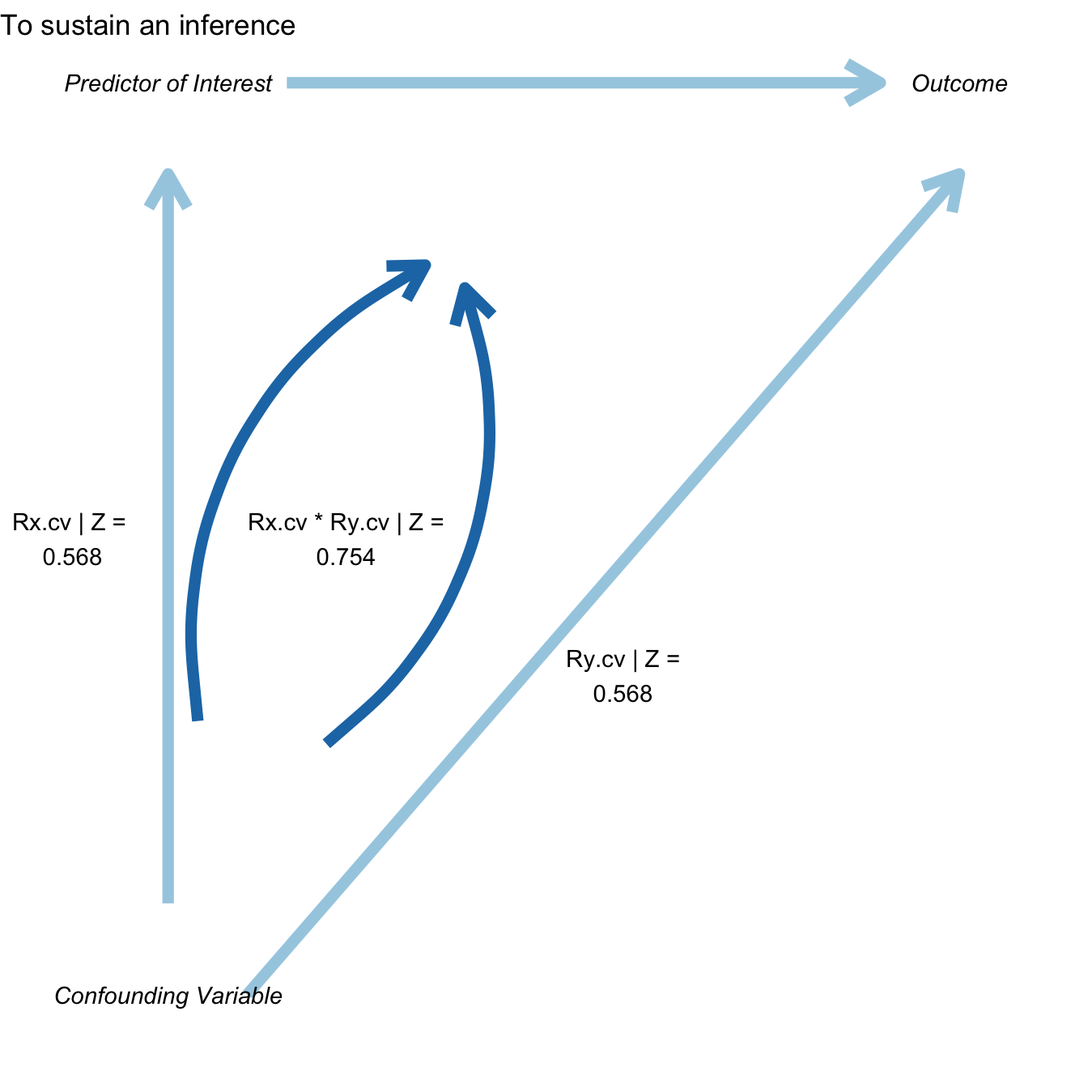
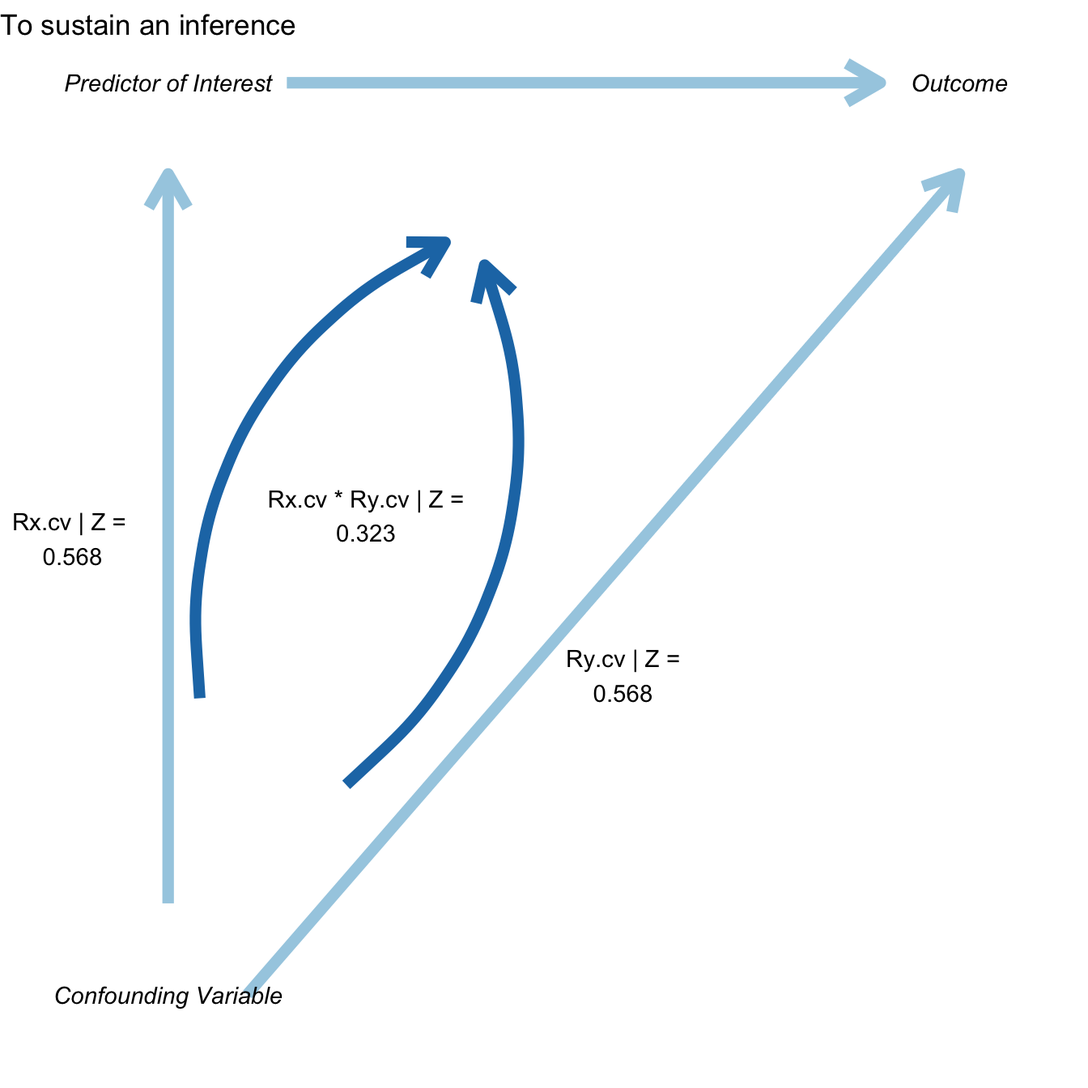
update in response to Ken's feedback

Changed region(s): [[0.2188, 0.2188, 0.5, 0.7188], [0.1562, 0.5, 0.1875, 0.6562]]

diff --git a/docs/articles/Introduction_to_konfound.html b/docs/articles/Introduction_to_konfound.html
@@ -50,7 +50,7 @@
       <h1>Introduction to konfound</h1>
                         <h4 class="author">Joshua Rosenberg, Ran Xu, and Ken Frank</h4>
             
-            <h4 class="date">2017-11-05</h4>
+            <h4 class="date">2017-11-08</h4>
           </div>
 
     
@@ -59,8 +59,8 @@
 <div id="abstract" class="section level1">
 <h1 class="hasAnchor">
 <a href="#abstract" class="anchor"></a>Abstract</h1>
-<p><em>This abstract is adapted from Xu, Frank, and Maroulis’ STATA tutorial “What would it take to Change your Inference? Quantifying the Discourse about Causal Inferences in the Social Sciences”</em></p>
-<p>Statistical methods that quantify the discourse about causal inferences in terms of possible sources of biases, or “sensitivity analysis,” is becoming more important to a variety of social science fields, including research in education, public policy, and political science. A series of recent works by Frank and colleagues on sensitivity analysis points to limitations in earlier methods and aims to extend beyond them. We implement these developments, which previously have been implemented in <code>Stata</code>, in <code>R</code> through the <code>konfound</code> package. In particular, we provide functions for quantifying the bias necessary to alter an inference, from the framework of Rubin’s (1974) causal model, as well as the robustness of causal inference in terms of correlations associated with unobserved variables.</p>
+<p><em>This abstract is adapted from Xu, Frank, and Maroulis’ STATA tutorial “What would it take to Change your Inference? Quantifying the Discourse about Causal Inferences in the Social Sciences.”</em></p>
+<p>Statistical methods that quantify the discourse about causal inferences in terms of possible sources of biases, or “sensitivity analysis,” are becoming more important to a variety of social science fields, including research in education, public policy, and political science. A series of recent works by Frank and colleagues on sensitivity analysis points to limitations in earlier methods and aims to extend beyond them. We implement these developments, which previously have been implemented in <code>Stata</code>, in <code>R</code> through the <code>konfound</code> package. In particular, we provide functions for quantifying the bias necessary to alter an inference, from the framework of Rubin’s (1974) causal model, as well as the robustness of causal inference in terms of the impact threshold of a confounding variable.</p>
 </div>
 <div id="introduction" class="section level1">
 <h1 class="hasAnchor">
@@ -70,12 +70,19 @@
 <h1 class="hasAnchor">
 <a href="#examples" class="anchor"></a>Examples</h1>
 <p><code>konfound</code> is an <code>R</code> package to easily carry out sensitivity analysis as described in Frank, Maroulis, Duong, and Kelcey (2013) based on Rubin’s (1974) causal model.</p>
+<div id="installation" class="section level3">
+<h3 class="hasAnchor">
+<a href="#installation" class="anchor"></a>Installation</h3>
+<p>You can install konfound from GitHub (it will be available on CRAN and therefore via <code>install.packages("konfound")</code> soon) with:</p>
+<div class="sourceCode"><pre class="sourceCode r"><code class="sourceCode r"><span class="co"># install.packages("devtools")</span>
+devtools<span class="op">::</span><span class="kw">install_github</span>(<span class="st">"jrosen48/konfound"</span>)</code></pre></div>
+</div>
 <div id="loading-konfound" class="section level3">
 <h3 class="hasAnchor">
 <a href="#loading-konfound" class="anchor"></a>Loading konfound</h3>
 <div class="sourceCode"><pre class="sourceCode r"><code class="sourceCode r"><span class="kw">library</span>(konfound)</code></pre></div>
 <pre><code>## Loading konfound</code></pre>
-<pre><code>## Sensitivity analysis as described in Frank, Maroulis, Duong, and Kelcey (2013).
+<pre><code>## Sensitivity analysis as described in Frank, Maroulis, Duong, and Kelcey (2013) and in Frank (2000).
 ## For more information visit https://jmichaelrosenberg.shinyapps.io/shinykonfound/.</code></pre>
 </div>
 <div id="use-of-pkonfound" class="section level3">
@@ -88,7 +95,7 @@
 ## 
 ## Correlation-based Approach:
 ## An omitted variable would have to be correlated at 0.568 with the outcome and at 0.568 with the predictor of interest (conditioning on observed covariates) to invalidate an inference.
-## Correspondingly the impact of an omitted variable (as defined in Frank 2000) must be 0.568 X 0.568 = 0.754 to sustain an inference.</code></pre>
+## Correspondingly the impact of an omitted variable (as defined in Frank 2000) must be 0.568 X 0.568 = 0.323 to sustain an inference.</code></pre>
 <div class="sourceCode"><pre class="sourceCode r"><code class="sourceCode r"><span class="kw"><a href="../reference/pkonfound.html">pkonfound</a></span>(<span class="dv">2</span>, .<span class="dv">4</span>, <span class="dv">100</span>, <span class="dv">3</span>, <span class="dt">to_return =</span> <span class="st">"thresh_plot"</span>)</code></pre></div>
 <p><img src="Introduction_to_konfound_files/figure-html/unnamed-chunk-3-1.png" width="480"></p>
 <div class="sourceCode"><pre class="sourceCode r"><code class="sourceCode r"><span class="kw"><a href="../reference/pkonfound.html">pkonfound</a></span>(<span class="dv">2</span>, .<span class="dv">4</span>, <span class="dv">100</span>, <span class="dv">3</span>, <span class="dt">to_return =</span> <span class="st">"corr_plot"</span>)</code></pre></div>
@@ -100,7 +107,7 @@
 ## 
 ## Correlation-based Approach:
 ## An omitted variable would have to be correlated at 0.387 with the outcome and at 0.387 with the predictor of interest (conditioning on observed covariates) to sustain an inference.
-## Correspondingly the impact of an omitted variable (as defined in Frank 2000) must be 0.387 X 0.387 = 0.622 to invalidate an inference.</code></pre>
+## Correspondingly the impact of an omitted variable (as defined in Frank 2000) must be 0.387 X 0.387 = 0.15 to invalidate an inference.</code></pre>
 <div class="sourceCode"><pre class="sourceCode r"><code class="sourceCode r"><span class="kw"><a href="../reference/pkonfound.html">pkonfound</a></span>(.<span class="dv">4</span>, <span class="dv">2</span>, <span class="dv">100</span>, <span class="dv">3</span>, <span class="dt">to_return =</span> <span class="st">"thresh_plot"</span>)</code></pre></div>
 <p><img src="Introduction_to_konfound_files/figure-html/unnamed-chunk-5-1.png" width="480"></p>
 <div class="sourceCode"><pre class="sourceCode r"><code class="sourceCode r"><span class="kw"><a href="../reference/pkonfound.html">pkonfound</a></span>(<span class="fl">1.2</span>, <span class="dv">2</span>, <span class="dv">100</span>, <span class="dv">3</span>, <span class="dt">to_return =</span> <span class="st">"corr_plot"</span>)</code></pre></div>
@@ -128,7 +135,7 @@ m1</code></pre></div>
 ## 
 ## Correlation-based Approach:
 ## An omitted variable would have to be correlated at 0.322 with the outcome and at 0.322 with the predictor of interest (conditioning on observed covariates) to sustain an inference.
-## Correspondingly the impact of an omitted variable (as defined in Frank 2000) must be 0.322 X 0.322 = 0.567 to invalidate an inference.</code></pre>
+## Correspondingly the impact of an omitted variable (as defined in Frank 2000) must be 0.322 X 0.322 = 0.104 to invalidate an inference.</code></pre>
 <div class="sourceCode"><pre class="sourceCode r"><code class="sourceCode r"><span class="kw"><a href="../reference/konfound.html">konfound</a></span>(m1, <span class="dt">test_all =</span> T)</code></pre></div>
 <pre><code>##   var_name unstd_beta std_err n_obs n_covariates     inference
 ## 1       wt     -4.359   0.753    32            2 to_invalidate
@@ -137,7 +144,11 @@ m1</code></pre></div>
 ##   percent_bias replace_null_cases beta_threshhold omitted_variable_corr
 ## 1       64.669                 21     -1.54005792                 0.772
 ## 2       41.327                 13     -0.03067844                 0.322
-## 3       43.087                 14      0.89785581                 0.329</code></pre>
+## 3       43.087                 14      0.89785581                 0.329
+##         itcv
+## 1 -0.5963300
+## 2  0.1033755
+## 3 -0.1080756</code></pre>
 <p>You can also return a table with some key output from the correlation-based approach.</p>
 <div class="sourceCode"><pre class="sourceCode r"><code class="sourceCode r"><span class="kw"><a href="../reference/konfound.html">konfound</a></span>(m1, wt, <span class="dt">to_return =</span> <span class="st">"table"</span>)</code></pre></div>
 <pre><code>## Dependent variable is mpg</code></pre>
@@ -168,7 +179,7 @@ m1</code></pre></div>
 ## 
 ## Correlation-based Approach:
 ## An omitted variable would have to be correlated at 5.535 with the outcome and at 5.535 with the predictor of interest (conditioning on observed covariates) to invalidate an inference.
-## Correspondingly the impact of an omitted variable (as defined in Frank 2000) must be 5.535 X 5.535 = 2.353 to sustain an inference.</code></pre>
+## Correspondingly the impact of an omitted variable (as defined in Frank 2000) must be 5.535 X 5.535 = 30.636 to sustain an inference.</code></pre>
 </div>
 </div>
 <div id="use-of-mkonfound" class="section level3">
@@ -190,16 +201,16 @@ m1</code></pre></div>
 ## 7        2.3      0.10    50      1 to_invalidate       91.258
 ## 8        4.1      3.00   721      1    to_sustain       30.388
 ## 9        0.9      0.50   320      0    to_sustain        8.510
-##   replace_null_cases beta_threshhold omitted_variable_corr
-## 1                 49      0.59896933                 0.725
-## 2                174      5.70114580                 0.283
-## 3                 85      2.95802622                 0.227
-## 4                 90      3.96996862                 0.387
-## 5                 97      0.19860863                 0.974
-## 6                 18      0.08525798                 0.990
-## 7                 46      0.20106348                 0.971
-## 8                219      5.88980656                 0.144
-## 9                 27      0.98371419                 0.091</code></pre>
+##   replace_null_cases beta_threshhold omitted_variable_corr        itcv
+## 1                 49      0.59896933                 0.725  0.52521938
+## 2                174      5.70114580                 0.283  0.08010979
+## 3                 85      2.95802622                 0.227 -0.05159630
+## 4                 90      3.96996862                 0.387 -0.14988727
+## 5                 97      0.19860863                 0.974  0.94812468
+## 6                 18      0.08525798                 0.990  0.97914830
+## 7                 46      0.20106348                 0.971  0.94295173
+## 8                219      5.88980656                 0.144 -0.02064123
+## 9                 27      0.98371419                 0.091 -0.00833270</code></pre>
 <div class="sourceCode"><pre class="sourceCode r"><code class="sourceCode r"><span class="kw"><a href="../reference/mkonfound.html">mkonfound</a></span>(df, <span class="dt">return_plot =</span> <span class="ot">TRUE</span>)</code></pre></div>
 <pre><code>## `stat_bin()` using `bins = 30`. Pick better value with `binwidth`.</code></pre>
 <p><img src="Introduction_to_konfound_files/figure-html/unnamed-chunk-10-1.png" width="480"></p>

diff --git a/docs/reference/pkonfound.html b/docs/reference/pkonfound.html
@@ -136,19 +136,19 @@
 #&gt; 
 #&gt; Correlation-based Approach:
 #&gt; An omitted variable would have to be correlated at 0.568 with the outcome and at 0.568 with the predictor of interest (conditioning on observed covariates) to invalidate an inference.
-#&gt; Correspondingly the impact of an omitted variable (as defined in Frank 2000) must be 0.568 X 0.568 = 0.754 to sustain an inference.</div><div class='input'><span class='fu'>pkonfound</span>(<span class='fl'>.4</span>, <span class='fl'>2</span>, <span class='fl'>100</span>, <span class='fl'>3</span>)</div><div class='output co'>#&gt; Replacement of Cases Approach:
+#&gt; Correspondingly the impact of an omitted variable (as defined in Frank 2000) must be 0.568 X 0.568 = 0.323 to sustain an inference.</div><div class='input'><span class='fu'>pkonfound</span>(<span class='fl'>.4</span>, <span class='fl'>2</span>, <span class='fl'>100</span>, <span class='fl'>3</span>)</div><div class='output co'>#&gt; Replacement of Cases Approach:
 #&gt; To sustain the inference,  89.924 % of the estimate would have to be due to bias.To sustain the inference,  90  of the cases with 0 
 #&gt;  effect would have to be replaced with cases at the threshold of inference.
 #&gt; 
 #&gt; Correlation-based Approach:
 #&gt; An omitted variable would have to be correlated at 0.387 with the outcome and at 0.387 with the predictor of interest (conditioning on observed covariates) to sustain an inference.
-#&gt; Correspondingly the impact of an omitted variable (as defined in Frank 2000) must be 0.387 X 0.387 = 0.622 to invalidate an inference.</div><div class='input'><span class='fu'>pkonfound</span>(-<span class='fl'>2</span>, <span class='fl'>.4</span>, <span class='fl'>200</span>, <span class='fl'>3</span>)</div><div class='output co'>#&gt; Replacement of Cases Approach:
+#&gt; Correspondingly the impact of an omitted variable (as defined in Frank 2000) must be 0.387 X 0.387 = 0.15 to invalidate an inference.</div><div class='input'><span class='fu'>pkonfound</span>(-<span class='fl'>2</span>, <span class='fl'>.4</span>, <span class='fl'>200</span>, <span class='fl'>3</span>)</div><div class='output co'>#&gt; Replacement of Cases Approach:
 #&gt; To invalidate the inference, 60.557 % of the estimate would have to be due to bias.
 #&gt; To invalidate the inference, 121 observations would have to be replaced with cases for which the effect is 0.
 #&gt; 
 #&gt; Correlation-based Approach:
 #&gt; An omitted variable would have to be correlated at 0.479 with the outcome and at 0.479 with the predictor of interest (conditioning on observed covariates) to invalidate an inference.
-#&gt; Correspondingly the impact of an omitted variable (as defined in Frank 2000) must be 0.479 X 0.479 = 0.692 to sustain an inference.</div><div class='input'><span class='fu'>pkonfound</span>(<span class='fl'>2</span>, <span class='fl'>.4</span>, <span class='fl'>200</span>, <span class='fl'>3</span>, <span class='kw'>to_return</span> <span class='kw'>=</span> <span class='st'>"thresh_plot"</span>)</div><img src='pkonfound-8.png' alt='' width='540' height='400' /><div class='input'><span class='fu'>pkonfound</span>(<span class='fl'>2</span>, <span class='fl'>.4</span>, <span class='fl'>200</span>, <span class='fl'>3</span>, <span class='kw'>to_return</span> <span class='kw'>=</span> <span class='st'>"corr_plot"</span>)</div><img src='pkonfound-10.png' alt='' width='540' height='400' /></pre>
+#&gt; Correspondingly the impact of an omitted variable (as defined in Frank 2000) must be 0.479 X 0.479 = 0.229 to sustain an inference.</div><div class='input'><span class='fu'>pkonfound</span>(<span class='fl'>2</span>, <span class='fl'>.4</span>, <span class='fl'>200</span>, <span class='fl'>3</span>, <span class='kw'>to_return</span> <span class='kw'>=</span> <span class='st'>"thresh_plot"</span>)</div><img src='pkonfound-8.png' alt='' width='540' height='400' /><div class='input'><span class='fu'>pkonfound</span>(<span class='fl'>2</span>, <span class='fl'>.4</span>, <span class='fl'>200</span>, <span class='fl'>3</span>, <span class='kw'>to_return</span> <span class='kw'>=</span> <span class='st'>"corr_plot"</span>)</div><img src='pkonfound-10.png' alt='' width='540' height='400' /></pre>
   </div>
   <div class="col-md-3 hidden-xs hidden-sm" id="sidebar">
     <h2>Contents</h2>

diff --git a/docs/index.html b/docs/index.html
@@ -55,7 +55,7 @@
 <div id="konfound" class="section level1">
 <div class="page-header"><h1 class="hasAnchor">
 <a href="#konfound" class="anchor"></a>konfound</h1></div>
-<p>The goal of konfound is to carry out sensitivity analysis as described in Frank, Maroulis, Duong, and Kelcey (2013) based on Rubin’s (1974) causal model.</p>
+<p>The goal of konfound is to carry out sensitivity analysis as described in Frank, Maroulis, Duong, and Kelcey (2013) based on Rubin’s (1974) causal model as well as in Frank (2000) based on the impact threshold for a confounding variable.</p>
 </div>
 <div id="installation" class="section level1">
 <h1 class="hasAnchor">
@@ -65,7 +65,7 @@
 devtools<span class="op">::</span><span class="kw">install_github</span>(<span class="st">"jrosen48/konfound"</span>)</code></pre></div>
 <div class="sourceCode"><pre class="sourceCode r"><code class="sourceCode r"><span class="kw">library</span>(konfound)</code></pre></div>
 <pre><code>#&gt; Loading konfound
-#&gt; Sensitivity analysis as described in Frank, Maroulis, Duong, and Kelcey (2013).
+#&gt; Sensitivity analysis as described in Frank, Maroulis, Duong, and Kelcey (2013) and in Frank (2000).
 #&gt; For more information visit https://jmichaelrosenberg.shinyapps.io/shinykonfound/.</code></pre>
 </div>
 <div id="use-of-konfound" class="section level1">
@@ -83,7 +83,7 @@ devtools<span class="op">::</span><span class="kw">install_github</span>(<span c
 <span class="co">#&gt; </span>
 <span class="co">#&gt; Correlation-based Approach:</span>
 <span class="co">#&gt; An omitted variable would have to be correlated at 0.568 with the outcome and at 0.568 with the predictor of interest (conditioning on observed covariates) to invalidate an inference.</span>
-<span class="co">#&gt; Correspondingly the impact of an omitted variable (as defined in Frank 2000) must be 0.568 X 0.568 = 0.754 to sustain an inference.</span></code></pre></div>
+<span class="co">#&gt; Correspondingly the impact of an omitted variable (as defined in Frank 2000) must be 0.568 X 0.568 = 0.323 to sustain an inference.</span></code></pre></div>
 </div>
 <div id="konfound-for-models-fit-in-r" class="section level4">
 <h4 class="hasAnchor">
@@ -106,7 +106,7 @@ m1
 <span class="co">#&gt; </span>
 <span class="co">#&gt; Correlation-based Approach:</span>
 <span class="co">#&gt; An omitted variable would have to be correlated at 0.787 with the outcome and at 0.787 with the predictor of interest (conditioning on observed covariates) to invalidate an inference.</span>
-<span class="co">#&gt; Correspondingly the impact of an omitted variable (as defined in Frank 2000) must be 0.787 X 0.787 = 0.887 to sustain an inference.</span></code></pre></div>
+<span class="co">#&gt; Correspondingly the impact of an omitted variable (as defined in Frank 2000) must be 0.787 X 0.787 = 0.619 to sustain an inference.</span></code></pre></div>
 </div>
 <div id="mkonfound-for-meta-analyses-including-sensitivity-analysis" class="section level4">
 <h4 class="hasAnchor">
@@ -121,14 +121,14 @@ df &lt;-<span class="st"> </span><span class="kw">tribble</span>(
 )
 
 <span class="kw"><a href="reference/mkonfound.html">mkonfound</a></span>(df)
-<span class="co">#&gt; # A tibble: 3 x 9</span>
+<span class="co">#&gt; # A tibble: 3 x 10</span>
 <span class="co">#&gt;   unstd_beta std_err n_obs n_covs     inference percent_bias</span>
 <span class="co">#&gt;        &lt;dbl&gt;   &lt;dbl&gt; &lt;dbl&gt;  &lt;dbl&gt;         &lt;chr&gt;        &lt;dbl&gt;</span>
 <span class="co">#&gt; 1        2.0     0.3    70      3 to_invalidate       70.052</span>
 <span class="co">#&gt; 2       10.0     2.9   405      4 to_invalidate       42.989</span>
 <span class="co">#&gt; 3        1.7     1.5   200      1    to_sustain       42.529</span>
-<span class="co">#&gt; # ... with 3 more variables: replace_null_cases &lt;dbl&gt;,</span>
-<span class="co">#&gt; #   beta_threshhold &lt;dbl&gt;, omitted_variable_corr &lt;dbl&gt;</span></code></pre></div>
+<span class="co">#&gt; # ... with 4 more variables: replace_null_cases &lt;dbl&gt;,</span>
+<span class="co">#&gt; #   beta_threshhold &lt;dbl&gt;, omitted_variable_corr &lt;dbl&gt;, itcv &lt;dbl&gt;</span></code></pre></div>
 </div>
 </div>
 <div id="other-information" class="section level1">

diff --git a/docs/reference/konfound.html b/docs/reference/konfound.html
@@ -128,12 +128,12 @@
 #&gt; 
 #&gt; Correlation-based Approach:
 #&gt; An omitted variable would have to be correlated at 0.787 with the outcome and at 0.787 with the predictor of interest (conditioning on observed covariates) to invalidate an inference.
-#&gt; Correspondingly the impact of an omitted variable (as defined in Frank 2000) must be 0.787 X 0.787 = 0.887 to sustain an inference.</div><div class='input'><span class='fu'>konfound</span>(<span class='no'>m1</span>, <span class='no'>wt</span>, <span class='kw'>test_all</span> <span class='kw'>=</span> <span class='fl'>TRUE</span>)</div><div class='output co'>#&gt;   var_name unstd_beta std_err n_obs n_covariates     inference percent_bias
+#&gt; Correspondingly the impact of an omitted variable (as defined in Frank 2000) must be 0.787 X 0.787 = 0.619 to sustain an inference.</div><div class='input'><span class='fu'>konfound</span>(<span class='no'>m1</span>, <span class='no'>wt</span>, <span class='kw'>test_all</span> <span class='kw'>=</span> <span class='fl'>TRUE</span>)</div><div class='output co'>#&gt;   var_name unstd_beta std_err n_obs n_covariates     inference percent_bias
 #&gt; 1       wt     -3.878   0.633    32            1 to_invalidate       66.664
 #&gt; 2       hp     -0.032   0.009    32            1 to_invalidate       42.561
-#&gt;   replace_null_cases beta_threshhold omitted_variable_corr
-#&gt; 1                 21     -1.29275846                 0.787
-#&gt; 2                 14     -0.01838045                 0.556</div><div class='input'><span class='fu'>konfound</span>(<span class='no'>m1</span>, <span class='no'>wt</span>, <span class='kw'>to_return</span> <span class='kw'>=</span> <span class='st'>"table"</span>)</div><div class='output co'>#&gt; Dependent variable is mpg </div><div class='output co'>#&gt;          term estimate std.error statistic p.value  itcv impact
+#&gt;   replace_null_cases beta_threshhold omitted_variable_corr       itcv
+#&gt; 1                 21     -1.29275846                 0.787 -0.6199455
+#&gt; 2                 14     -0.01838045                 0.556 -0.3088738</div><div class='input'><span class='fu'>konfound</span>(<span class='no'>m1</span>, <span class='no'>wt</span>, <span class='kw'>to_return</span> <span class='kw'>=</span> <span class='st'>"table"</span>)</div><div class='output co'>#&gt; Dependent variable is mpg </div><div class='output co'>#&gt;          term estimate std.error statistic p.value  itcv impact
 #&gt; 1 (Intercept)   37.227     1.599    23.285   0.000    NA     NA
 #&gt; 2          wt   -3.878     0.633    -6.129   0.000 0.243     NA
 #&gt; 3          hp   -0.032     0.009    -3.519   0.001    NA  0.511</div></pre>

diff --git a/docs/reference/mkonfound.html b/docs/reference/mkonfound.html
@@ -127,16 +127,16 @@
 #&gt; 7        2.3      0.10    50      1 to_invalidate       91.258
 #&gt; 8        4.1      3.00   721      1    to_sustain       30.388
 #&gt; 9        0.9      0.50   320      0    to_sustain        8.510
-#&gt;   replace_null_cases beta_threshhold omitted_variable_corr
-#&gt; 1                 49      0.59896933                 0.725
-#&gt; 2                174      5.70114580                 0.283
-#&gt; 3                 85      2.95802622                 0.227
-#&gt; 4                 90      3.96996862                 0.387
-#&gt; 5                 97      0.19860863                 0.974
-#&gt; 6                 18      0.08525798                 0.990
-#&gt; 7                 46      0.20106348                 0.971
-#&gt; 8                219      5.88980656                 0.144
-#&gt; 9                 27      0.98371419                 0.091</div></pre>
+#&gt;   replace_null_cases beta_threshhold omitted_variable_corr        itcv
+#&gt; 1                 49      0.59896933                 0.725  0.52521938
+#&gt; 2                174      5.70114580                 0.283  0.08010979
+#&gt; 3                 85      2.95802622                 0.227 -0.05159630
+#&gt; 4                 90      3.96996862                 0.387 -0.14988727
+#&gt; 5                 97      0.19860863                 0.974  0.94812468
+#&gt; 6                 18      0.08525798                 0.990  0.97914830
+#&gt; 7                 46      0.20106348                 0.971  0.94295173
+#&gt; 8                219      5.88980656                 0.144 -0.02064123
+#&gt; 9                 27      0.98371419                 0.091 -0.00833270</div><div class='input'><span class='fu'>mkonfound</span>(<span class='no'>df</span>, <span class='kw'>return_plot</span> <span class='kw'>=</span> <span class='fl'>TRUE</span>)</div><div class='output co'>#&gt; <span class='message'>`stat_bin()` using `bins = 30`. Pick better value with `binwidth`.</span></div><img src='mkonfound-5.png' alt='' width='540' height='400' /></pre>
   </div>
   <div class="col-md-3 hidden-xs hidden-sm" id="sidebar">
     <h2>Contents</h2>

diff --git a/README.md b/README.md
@@ -3,7 +3,7 @@
 konfound
 ========
 
-The goal of konfound is to carry out sensitivity analysis as described in Frank, Maroulis, Duong, and Kelcey (2013) based on Rubin's (1974) causal model.
+The goal of konfound is to carry out sensitivity analysis as described in Frank, Maroulis, Duong, and Kelcey (2013) based on Rubin’s (1974) causal model as well as in Frank (2000) based on the impact threshold for a confounding variable.
 
 Installation
 ============
@@ -20,7 +20,7 @@ library(konfound)
 ```
 
     #> Loading konfound
-    #> Sensitivity analysis as described in Frank, Maroulis, Duong, and Kelcey (2013).
+    #> Sensitivity analysis as described in Frank, Maroulis, Duong, and Kelcey (2013) and in Frank (2000).
     #> For more information visit https://jmichaelrosenberg.shinyapps.io/shinykonfound/.
 
 Use of konfound
@@ -42,7 +42,7 @@ pkonfound(2, .4, 100, 3)
 #> 
 #> Correlation-based Approach:
 #> An omitted variable would have to be correlated at 0.568 with the outcome and at 0.568 with the predictor of interest (conditioning on observed covariates) to invalidate an inference.
-#> Correspondingly the impact of an omitted variable (as defined in Frank 2000) must be 0.568 X 0.568 = 0.754 to sustain an inference.
+#> Correspondingly the impact of an omitted variable (as defined in Frank 2000) must be 0.568 X 0.568 = 0.323 to sustain an inference.
 ```
 
 #### konfound() for models fit in R
@@ -71,7 +71,7 @@ konfound(m1, wt)
 #> 
 #> Correlation-based Approach:
 #> An omitted variable would have to be correlated at 0.787 with the outcome and at 0.787 with the predictor of interest (conditioning on observed covariates) to invalidate an inference.
-#> Correspondingly the impact of an omitted variable (as defined in Frank 2000) must be 0.787 X 0.787 = 0.887 to sustain an inference.
+#> Correspondingly the impact of an omitted variable (as defined in Frank 2000) must be 0.787 X 0.787 = 0.619 to sustain an inference.
 ```
 
 #### mkonfound for meta-analyses including sensitivity analysis
@@ -87,14 +87,14 @@ df <- tribble(
 )
 
 mkonfound(df)
-#> # A tibble: 3 x 9
+#> # A tibble: 3 x 10
 #>   unstd_beta std_err n_obs n_covs     inference percent_bias
 #>        <dbl>   <dbl> <dbl>  <dbl>         <chr>        <dbl>
 #> 1        2.0     0.3    70      3 to_invalidate       70.052
 #> 2       10.0     2.9   405      4 to_invalidate       42.989
 #> 3        1.7     1.5   200      1    to_sustain       42.529
-#> # ... with 3 more variables: replace_null_cases <dbl>,
-#> #   beta_threshhold <dbl>, omitted_variable_corr <dbl>
+#> # ... with 4 more variables: replace_null_cases <dbl>,
+#> #   beta_threshhold <dbl>, omitted_variable_corr <dbl>, itcv <dbl>
 ```
 
 Other information
